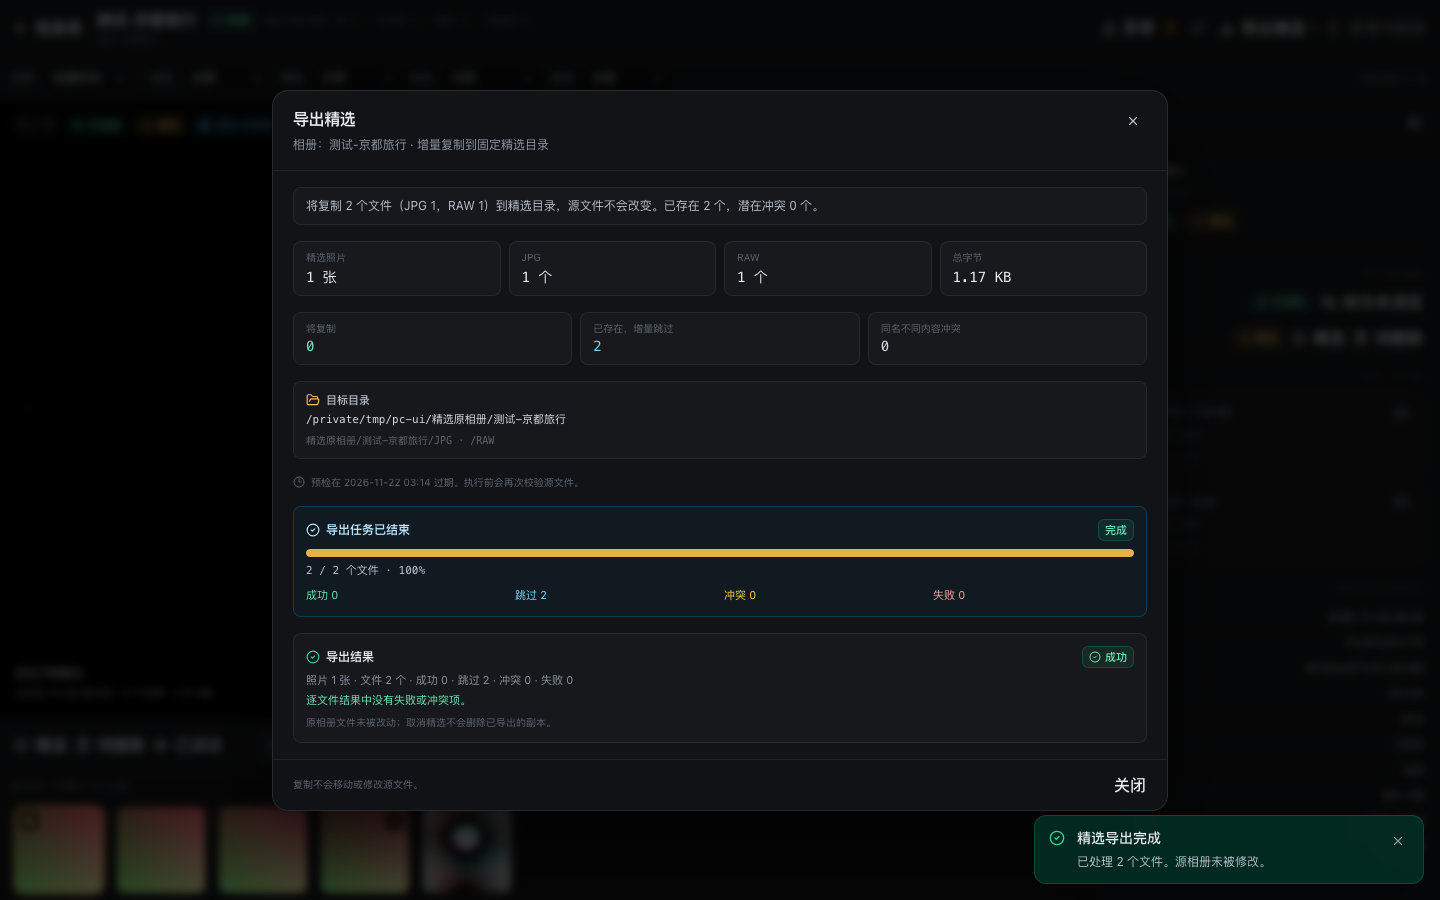
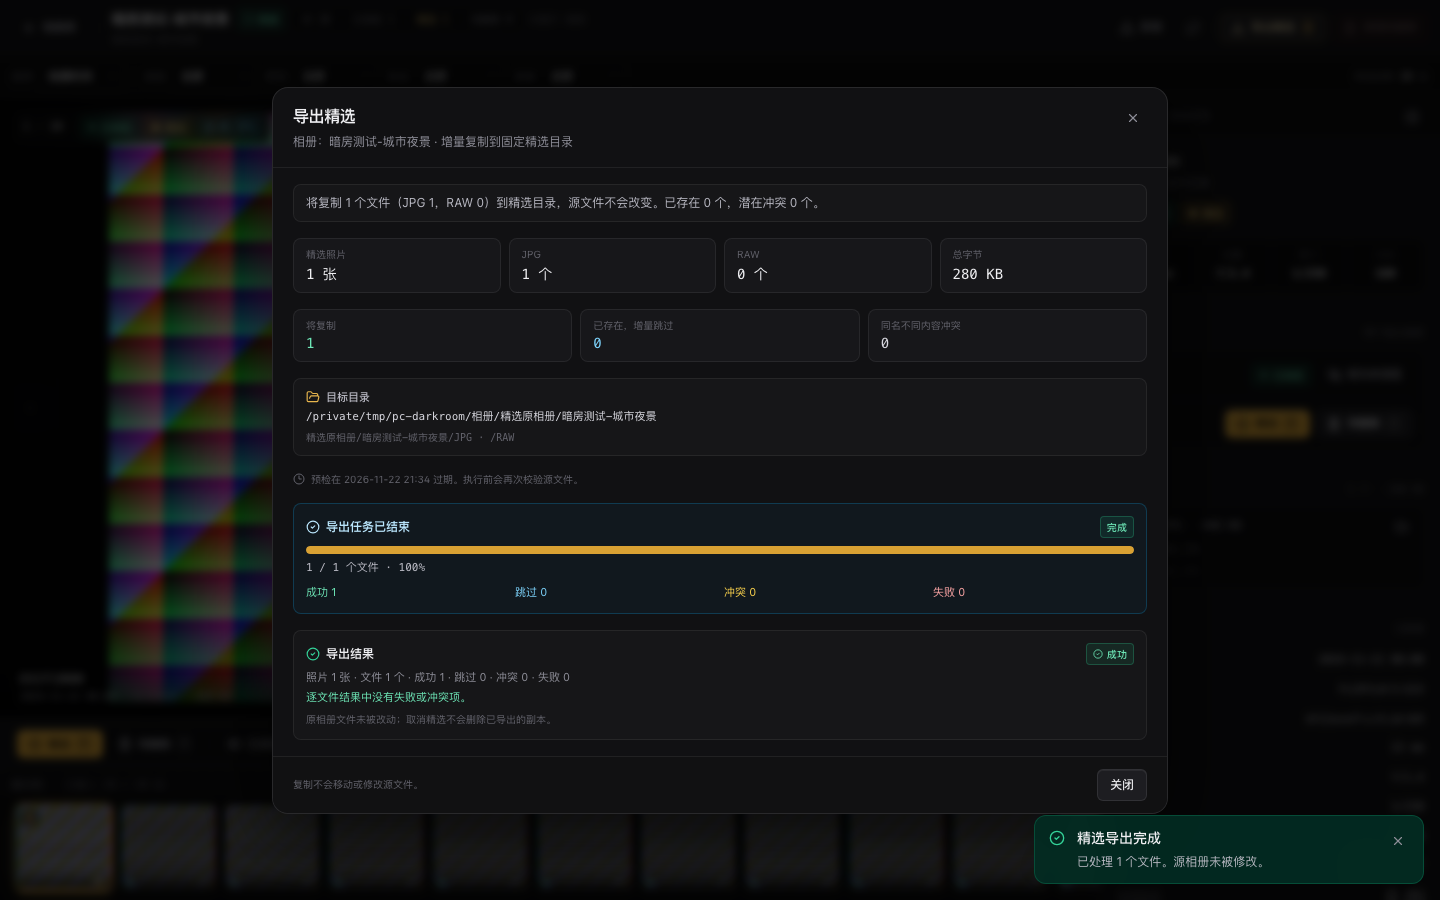
chore(release): 0.3.0
- bump app/package versions to 0.3.0
- document the darkroom theme, Chinese labels and preserved 0.2.0 features
- replace README screenshots with the localized darkroom UI
- record fresh build/test output in the test report

diff --git a/apps/server/photo_curator/config.py b/apps/server/photo_curator/config.py
@@ -12,7 +12,7 @@ import shutil
 from dataclasses import dataclass, field
 from pathlib import Path
 
-APP_VERSION = "0.2.0"
+APP_VERSION = "0.3.0"
 DEFAULT_PHOTO_ROOT = Path.home() / "Desktop" / "相册"
 DEFAULT_EXPORT_DIR_NAME = "精选原相册"
 PROJECT_ROOT = Path(__file__).resolve().parents[3]

diff --git a/apps/server/photo_curator/__init__.py b/apps/server/photo_curator/__init__.py
@@ -1,3 +1,3 @@
 """相册精选助手后端包。"""
 
-__version__ = "0.2.0"
+__version__ = "0.3.0"

diff --git a/docs/test-report.md b/docs/test-report.md
@@ -14,7 +14,7 @@
 | 大相册性能 | `.venv/bin/python -m pytest tests/performance -q -s` | **1 passed**：扫描 1000 张逻辑照片 **0.71s**，首屏 200 张 **0.010s**，遍历全部 5 页 **0.04s** |
 | 前端类型检查 | `npm run typecheck` | **通过**（TypeScript strict，`tsc -b`） |
 | 前端单元/交互测试 | `npm test` | **17 passed**（Vitest 5.1.1，3 个测试文件） |
-| 前端生产构建 | `npm run build` | **成功**：`dist/assets/index-*.js` 502.73 kB（gzip 150.24 kB），CSS 36.23 kB（gzip 7.58 kB） |
+| 前端生产构建 | `npm run build` | **成功**：`dist/assets/index-*.js` 511.05 kB（gzip 152.14 kB），CSS 48.63 kB（gzip 9.13 kB） |
 | 依赖安全审计 | `npm audit` | **0 vulnerabilities** |
 | GitHub Actions（macOS） | 全部 PR 与 `main` | **通过**（后端测试、类型检查、Vitest、生产构建） |
 | Playwright 端到端 | `npm run test:e2e` | **2 passed**，11.6s；含默认适应视图与清理缩略图悬浮预览，使用生产构建 + 临时夹具 + 真实 macOS 废纸篓并撤销 |
@@ -90,6 +90,14 @@
 - `src/components/culler/Filmstrip.test.tsx`（2 个）：左右翻批按钮存在与禁用状态、点击右翻按视口宽度滚动（不是只移动一张）。
 - `src/components/ui/Modal.test.tsx`（3 个）：焦点陷阱、Esc 关闭、关闭后焦点恢复。
 
+0.3.0 暗房主题：
+
+- 应用用户提供的 12 文件暗房主题（壳层、相册库、筛选器、查看器、胶片栏、信息面板与共享控件）。
+- 装饰性英文标签统一改为中文（本地图库、暗房、适应、信息面板、胶片栏、元数据、空相册等）；技术标识 JPG/RAW/EXIF/ISO/SHA-256 保留。
+- 浏览器标题恢复为「相册精选助手」。
+- 主题不修改后端/API/依赖；0.2.0 的清理缩略图悬浮预览、默认适应视图、胶片栏翻批全部保留。
+- 1440px 与 480px 生产构建截图见 `docs/images/`；浏览器控制台无错误。
+
 本轮 UI 增补（0.2.0）：
 
 - 清理确认页每个逻辑照片组显示缩略图，悬浮/聚焦弹出同源大图预览；预览失败有明确提示，不暴露任意路径。
@@ -103,8 +111,8 @@ tsc -b → 通过
 vite v7.3.8 building client environment for production...
 ✓ 1674 modules transformed.
 dist/index.html                   0.45 kB │ gzip:   0.31 kB
-dist/assets/index-DCciYU0C.css   36.23 kB │ gzip:   7.58 kB
-dist/assets/index-DxkMtSeI.js   502.73 kB │ gzip: 150.24 kB
+dist/assets/index-CJWIxBOK.css   48.63 kB │ gzip:   9.13 kB
+dist/assets/index-CZfsJY2F.js   511.05 kB │ gzip: 152.14 kB
 ✓ built in 1.15s
 ```
 

diff --git a/CHANGELOG.md b/CHANGELOG.md
@@ -1,5 +1,24 @@
 # Changelog
 
+## 0.3.0 - 2026-11-22
+
+### Changed
+
+- 应用暗房主题视觉：炭黑/黄铜配色、灯箱式相册封面、单行工作台顶栏、曝光参数信息卡与更紧凑的胶片栏。
+- 将主题中的英文装饰小标签（LOCAL CATALOG、DARKROOM、FIT、INSPECTOR、FILMSTRIP、METADATA、EMPTY ROLL 等）统一改为中文。
+- 浏览器标题改回「相册精选助手」，不再带主题名。
+- 保留 0.2.0 的清理缩略图悬浮预览、默认适应视图和胶片栏翻批功能。
+
+### Docs
+
+- 更新 README 界面截图为暗房主题。
+- 更新测试报告和版本号到 0.3.0。
+
+### Tests
+
+- 后端 129 passed；前端 17 passed；Playwright 2 passed（连续运行通过）。
+- 暗房主题在 1440px 与 480px 宽度下完成浏览器检查，无控制台错误。
+
 ## 0.2.0 - 2026-11-22
 
 ### Added

diff --git a/README.md b/README.md
@@ -26,8 +26,10 @@
 | ![清理](docs/images/cleanup.png) | ![导出](docs/images/export.png) |
 | **操作记录** | **异常中心** |
 | ![操作记录](docs/images/operations.png) | ![异常中心](docs/images/issues.png) |
+| **清理缩略图悬浮预览** | **窄窗口布局（480px）** |
+| ![缩略图悬浮预览](docs/images/darkroom-cleanup-hover.png) | ![窄窗口](docs/images/darkroom-culler-480.png) |
 
-截图使用 `/tmp` 下由脚本生成的测试相册与合成图片，不包含任何私人照片。
+界面采用暗房（Darkroom）主题：炭黑与黄铜色、灯箱式相册封面、单行工作台顶栏；装饰性小标签已全部中文化。截图使用 `/tmp` 下由脚本生成的测试相册与合成图片，不包含任何私人照片。
 
 ## 环境要求
 
